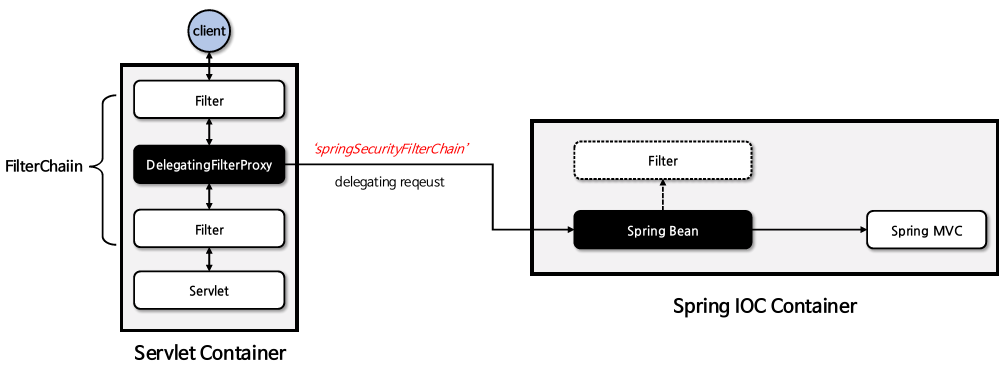
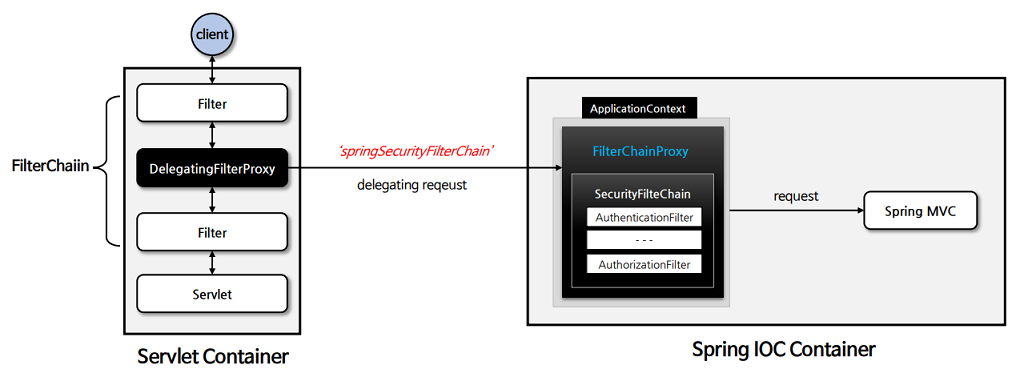
Update post spring-security-s2

Changed region(s): [[0.0, 0.0293, 1.0, 0.968], [0.1853, 0.7627, 0.247, 0.792]]

diff --git a/docs/book-lecture/spring-security-v6/section-02.md b/docs/book-lecture/spring-security-v6/section-02.md
@@ -544,6 +544,8 @@ protected Filter performBuild() throws Exception {
 
 ## DelegatingFilterProxy, FilterChainProxy
 ### DelegatingFilterProxy
+![image](/images/lecture/spring-security-s2-11.png)
+
 스프링 시큐리티는 모든 작업을 필터 기반으로 수행한다. 그러나 서블릿 필터는 스프링의 기능(DI, AOP 등) 사용할 수 없다.
 
 이 프록시를 통해 스프링에서 필터 타입의 클래스를 빈으로 생성하여 필터에 DI, AOP 등 스프링의 기능을 사용하기 위해 서블릿과 스프링 애플리케이션 컨텍스트 사이를 연결하는 다리 역할을 하도록 이 클래스를 설계했다.
@@ -552,13 +554,18 @@ protected Filter performBuild() throws Exception {
 - 서블릿 필터의 기능을 수행하는 동시에 스프링 의존성 주입, 빈 관리 기능과 연동되도록 설계되었다.
 - `springSecurityFilterChain` 이름으로 생성된 빈을 애플리케이션 컨텍스트에서 찾아 요청을 위임한다.
 
-![image](/images/lecture/spring-security-s2-11.png)
 
 ### FilterChainProxy
-- `springSecurityFilterChain`의 이름으로 생성되는 필터 빈으로서 DelegatingFilterProxy 로부터 요청을 위임 받고 보안 처리 역할을 한다.
+![image](/images/lecture/spring-security-s2-12.png)
+
+- `springSecurityFilterChain`의 이름으로 생성되는 필터 빈으로서 DelegatingFilterProxy 로부터 받은 요청을 SecurityFilterChain에 위임하여 보안 처리를 수행한다. 보안 처리 후 DispatcherServlet에 요청을 전달하여 실제 비즈니스 로직 처리가 진행된다.
 - 하나 이상의 SecurityFilterChain 객체들을 가지고 있으며 요청 URL 정보를 기준으로 적절한 SecurityFilterChain을 선택하여 필터를 호출한다.
 - HttpSecurity를 통해 API 추가 시 관련 필터들이 추가된다.
 - 사용자의 요청을 필터 순서대로 호출함으로 보안 기능을 동작시키고 필요 시 직접 필터를 생성해서 기존의 필터 전.후에 추가할 수 있다.
+
+::: warning SecurityFilterChain
+인증을 처리하는 여러 개의 시큐리티 필터를 담은 필터 체인. 여러 개의 SecurityFilterChain을 구성하여 매칭되는 URL에 따라 적절한 SecurityFilterChain이 사용되도록 한다.
+:::
 
 **[DelegatingFilterProxy 생성]**
 
@@ -683,7 +690,7 @@ targetBeanName으로 <u>FilterChainProxy 빈 찾아온다</u>. 이후 `invokeDel
 ## 사용자 정의 보안 설정
 - 한 개 이상의 SecurityFilterChain 타입의 빈을 정의한 후 인증 / 인가 API를 설정한다.
 
-![image](/images/lecture/spring-security-s2-12.png)
+![image](/images/lecture/spring-security-s2-13.png)
 
 **[SecurityConfig 클래스 생성]**
 
@@ -726,6 +733,7 @@ class DefaultWebSecurityCondition extends AllNestedConditions {
 SecurityFilterChain 빈이 없는 경우에만 디폴트 시큐리티 필터 체인이 생성되는 것을 확인할 수 있다.
 
 **[사용자 설정 추가]**
+
 (1) application.yml
 
 ```
@@ -778,3 +786,6 @@ public UserDetailsService userDetailsService() {
 
 - `.password("{noop}1234")` : {noop)는 비밀번호 인코딩을 하지 않음을 의미
 - yml 설정과 Config 빈 설정이 중복되면 Config 빈 설정이 우선순위가 높다.
+
+## References
+- 스프링 시큐리티 완전 정복 [6.x 개정판] / 인프런 / 정수원
